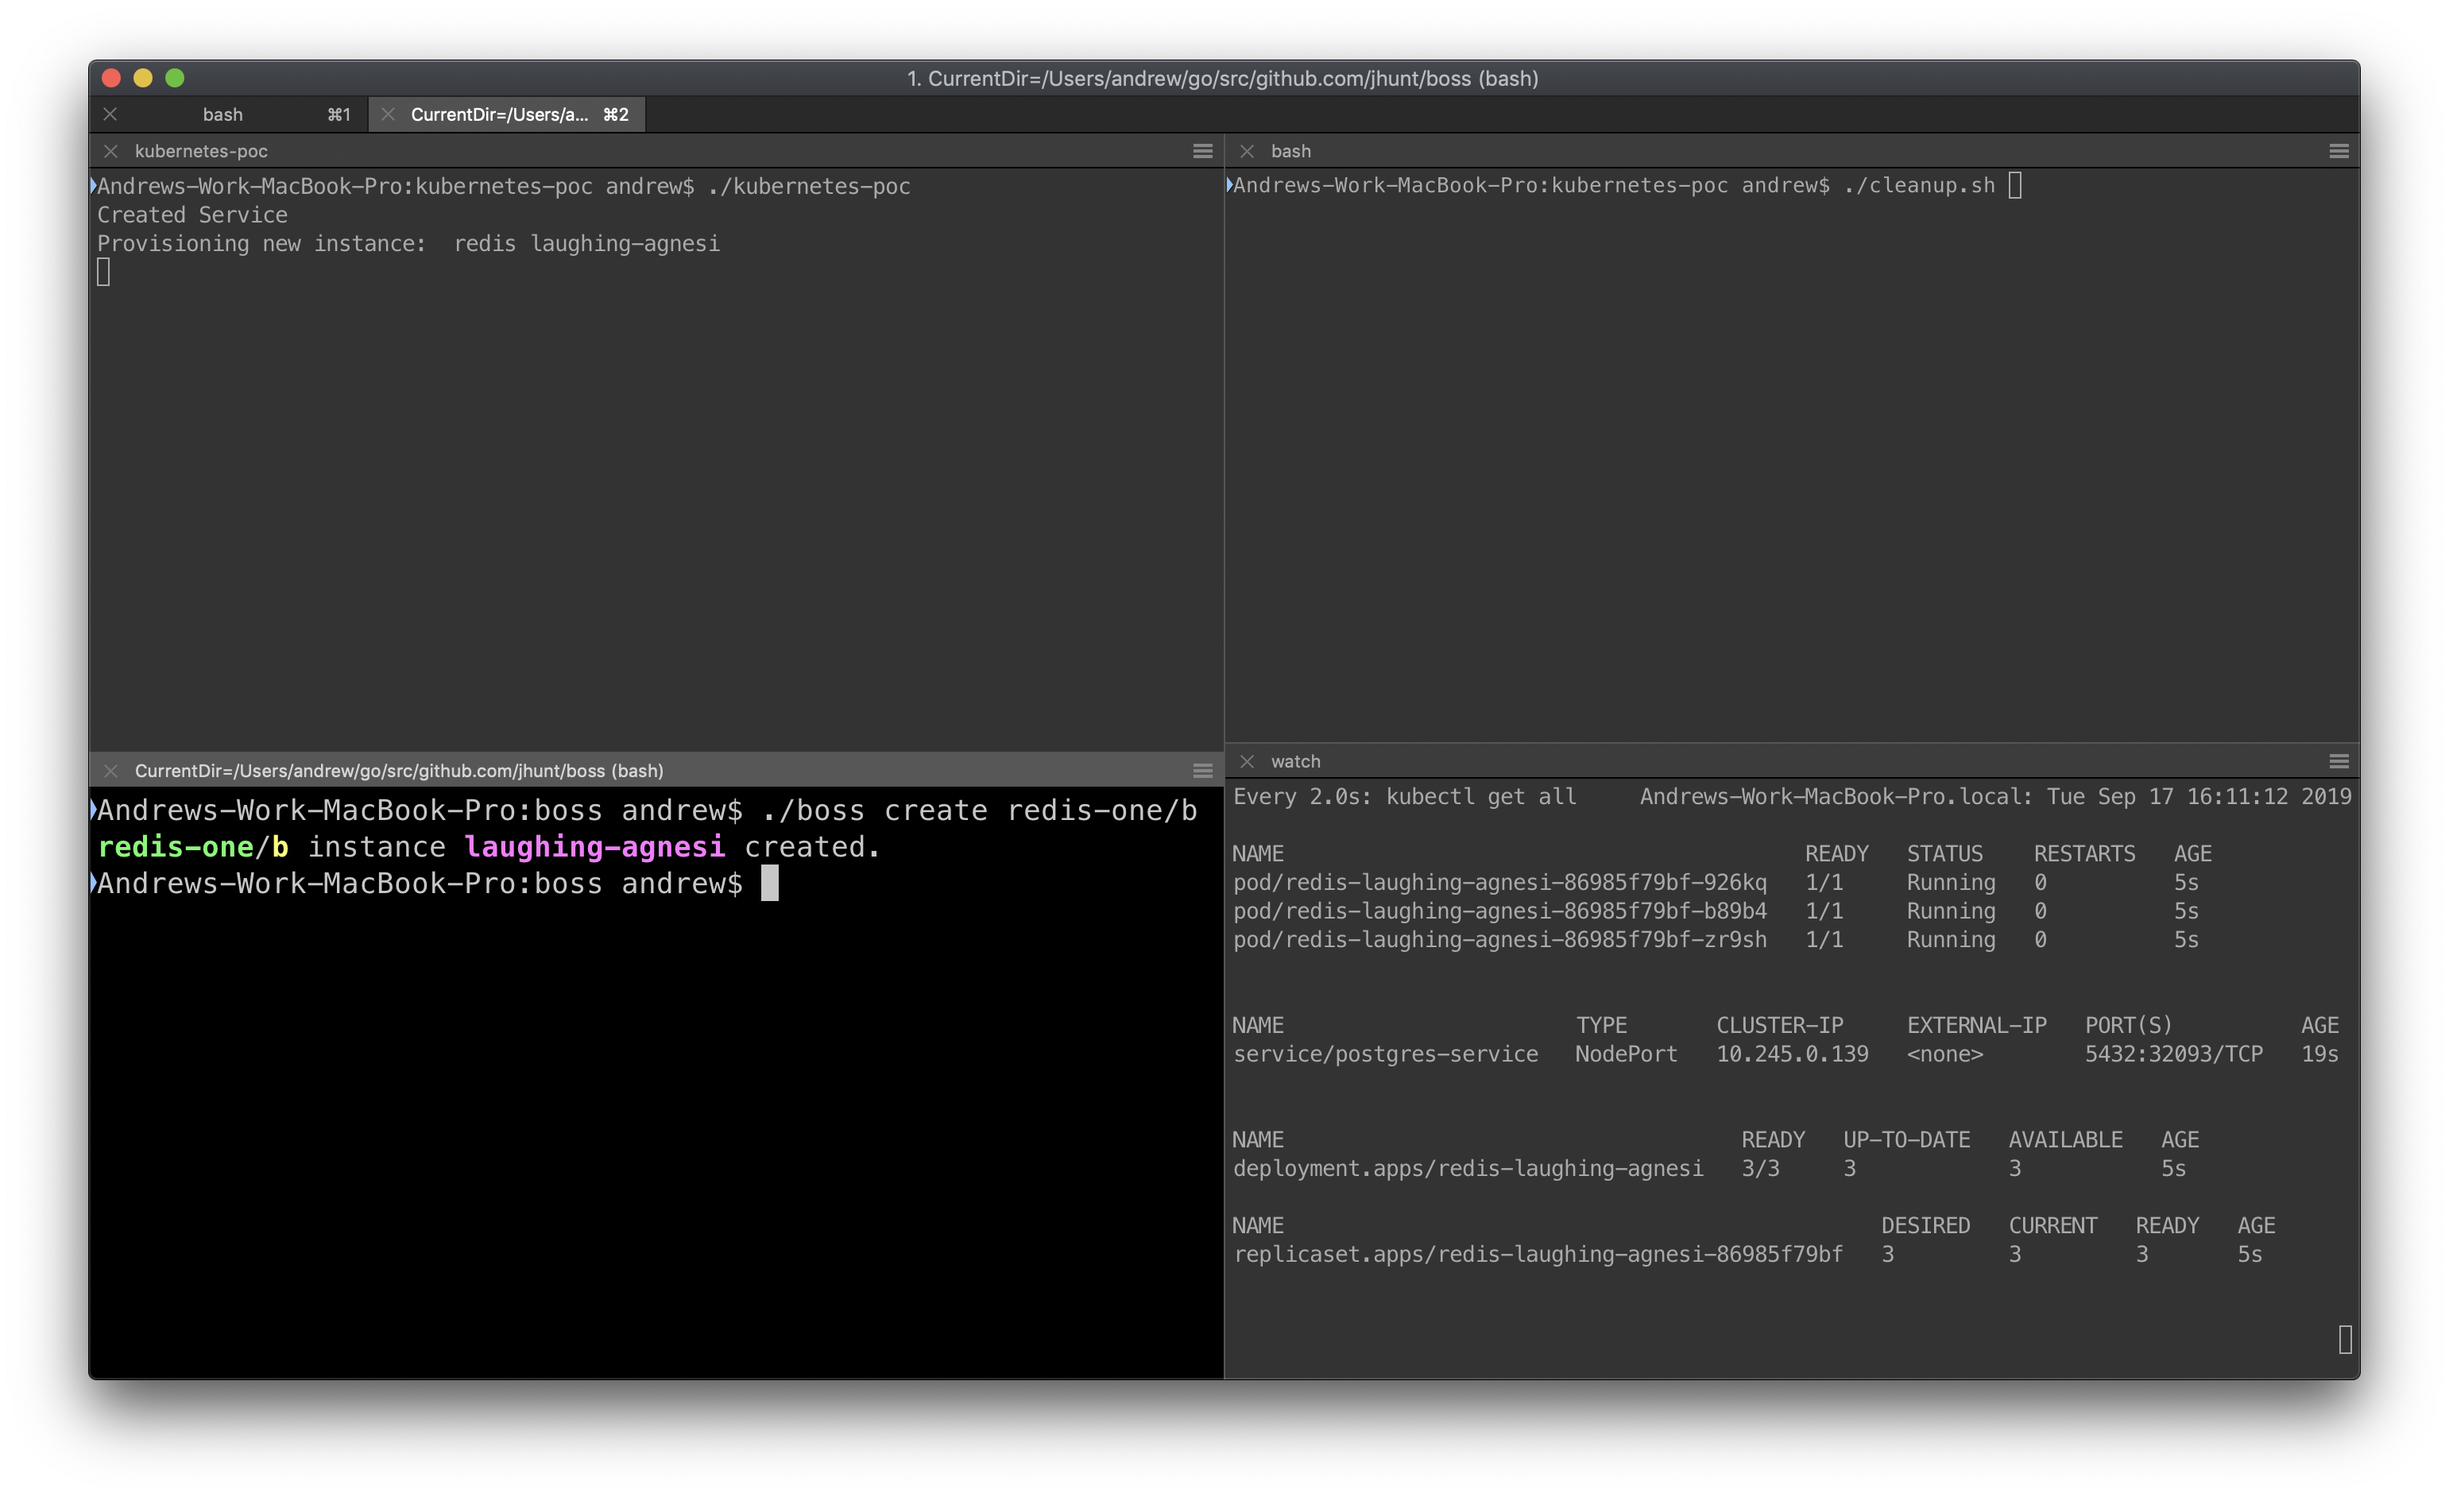
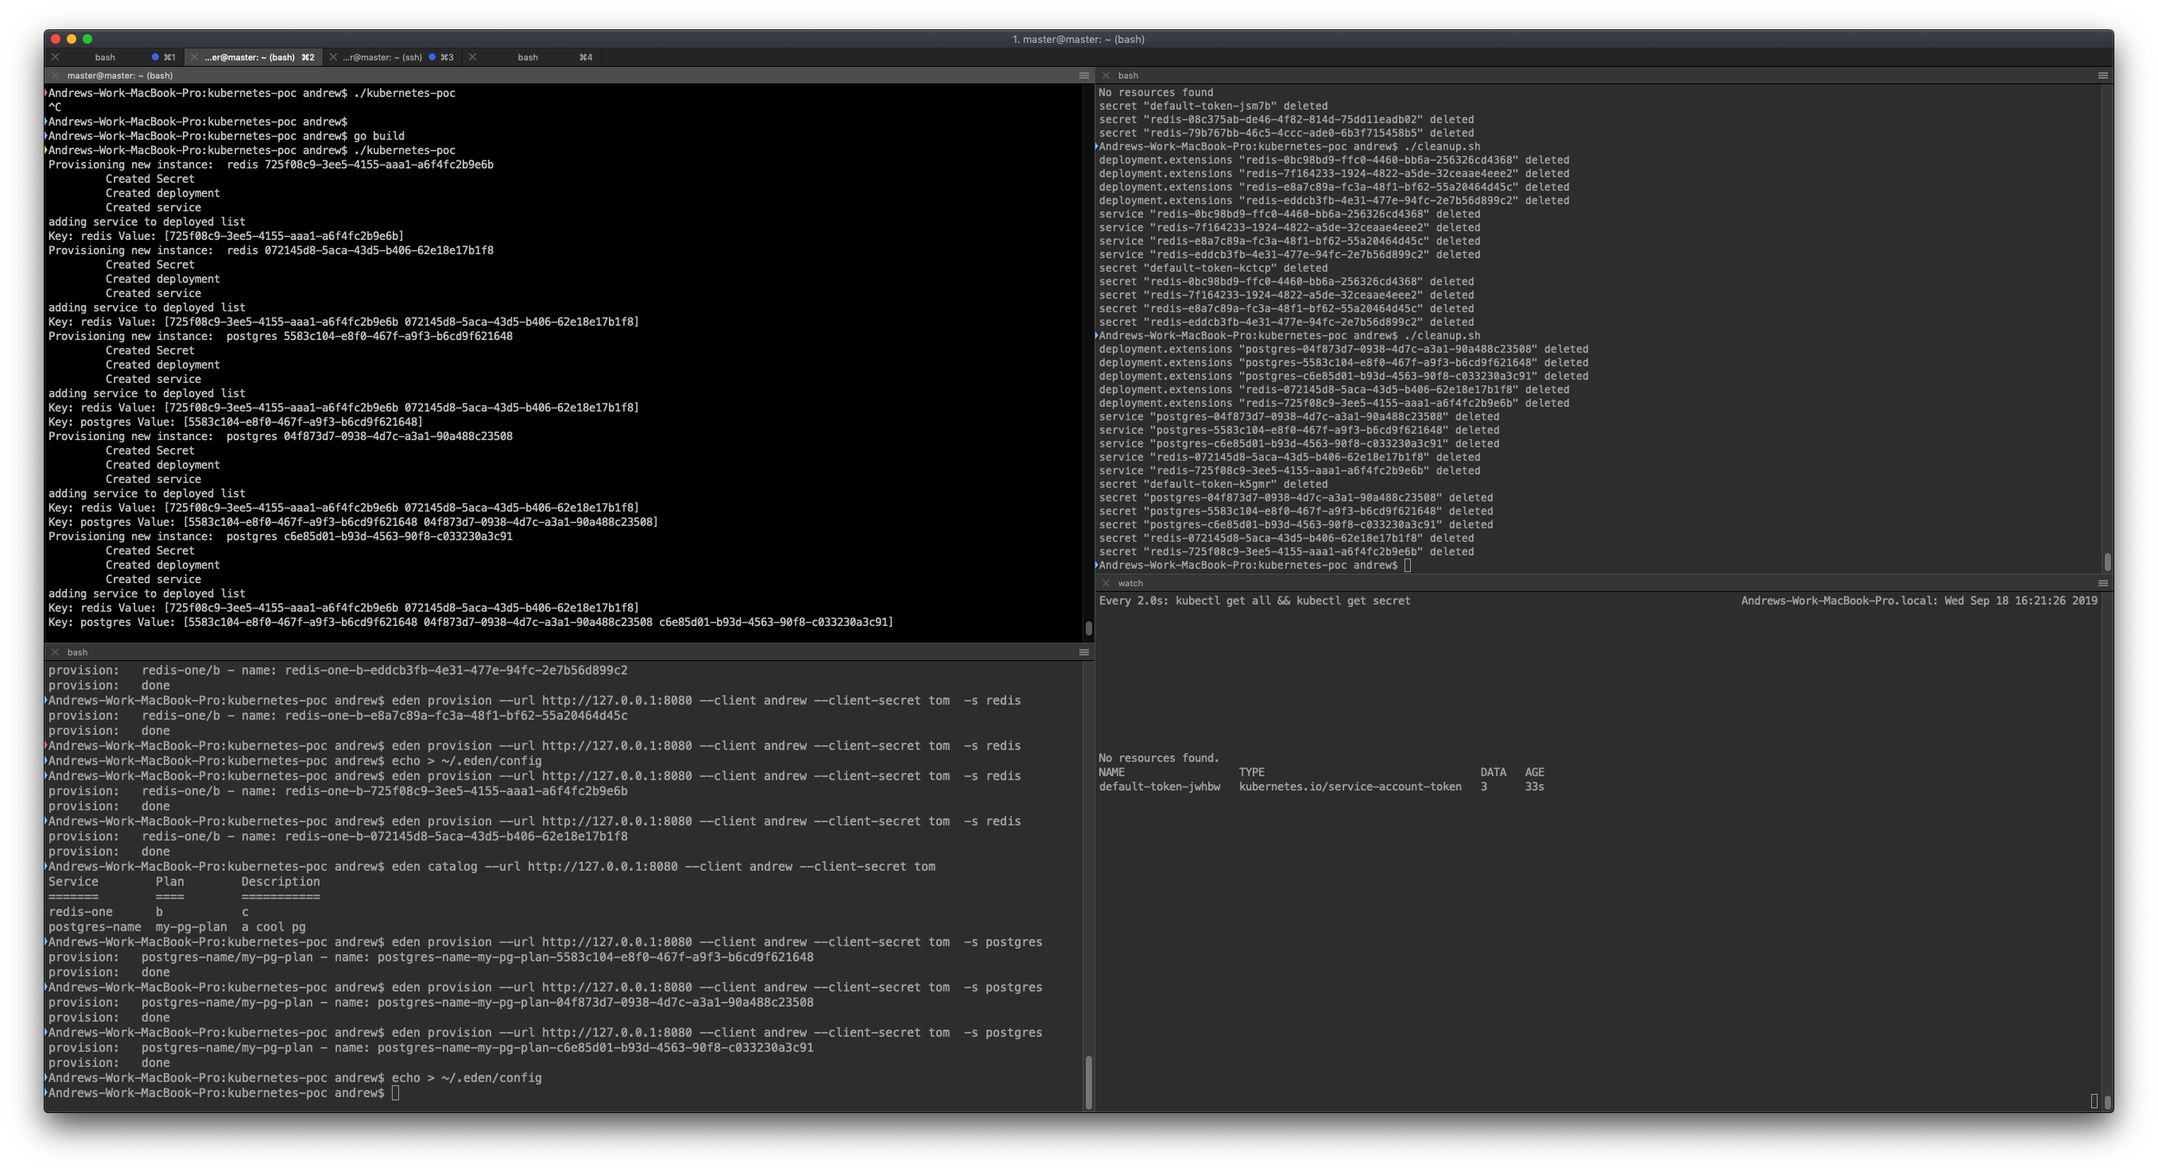
make maps n stuff

diff --git a/broker.go b/broker.go
@@ -11,7 +11,7 @@ import (
 
 type Broker struct {
 	KubeClient  kubernetes.Clientset
-	Deployments map[string]map[string]string
+	Deployments map[string][]string
 }
 
 type InstanceCreator interface {
@@ -33,6 +33,17 @@ func (b *Broker) Services(context context.Context) ([]brokerapi.Service, error) 
 				Description: "c",
 			}},
 		},
+		brokerapi.Service{
+			ID:          "postgres",
+			Name:        "postgres-name",
+			Description: "the best pg instance this side of something",
+			Bindable:    true,
+			Plans: []brokerapi.ServicePlan{{
+				ID:          "plan-one",
+				Name:        "my-pg-plan",
+				Description: "a cool pg",
+			}},
+		},
 	}, nil
 }
 
@@ -51,10 +62,7 @@ func (b *Broker) Provision(context context.Context, instanceID string, details b
 
 	fmt.Println("adding service to deployed list")
 
-	b.Deployments = map[string]string{
-		"service_id":  details.ServiceID,
-		"instance_id": instanceID,
-	}
+	b.Deployments[details.ServiceID] = append(b.Deployments[details.ServiceID], instanceID)
 
 	for key, value := range b.Deployments {
 		fmt.Println("Key:", key, "Value:", value)

diff --git a/main.go b/main.go
@@ -34,7 +34,7 @@ func main() {
 		Password: "tom",
 	}
 
-	deploymentMap = make(map[string]map[string]string)
+	deploymentMap := make(map[string][]string)
 
 	broker := &Broker{
 		KubeClient:  *k8sClient,

diff --git a/README.md b/README.md
@@ -1,3 +1,3 @@
-## I am so proud of this.
+## Even more proud of this
 
 ![a 4-split terminal doing the serice broker thing](image.png)
